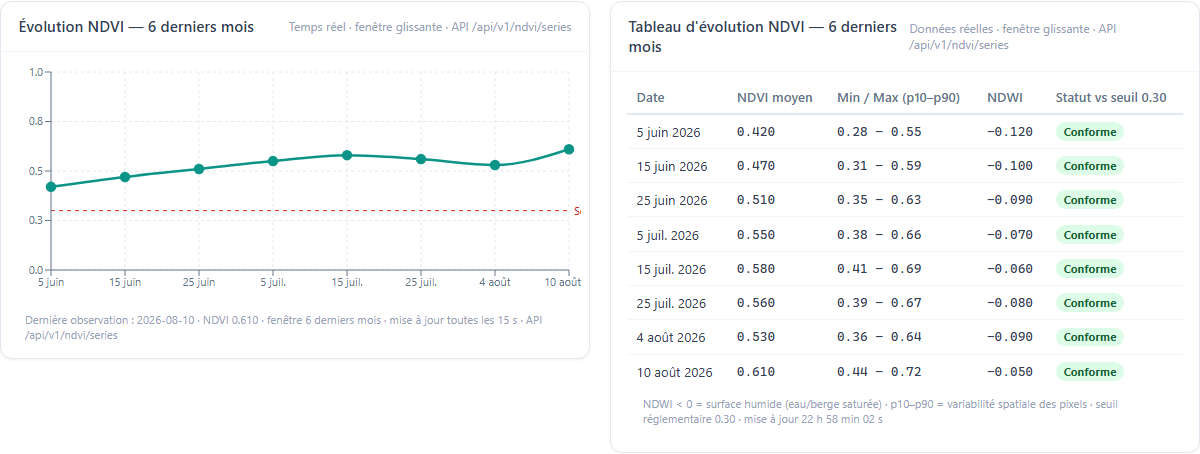
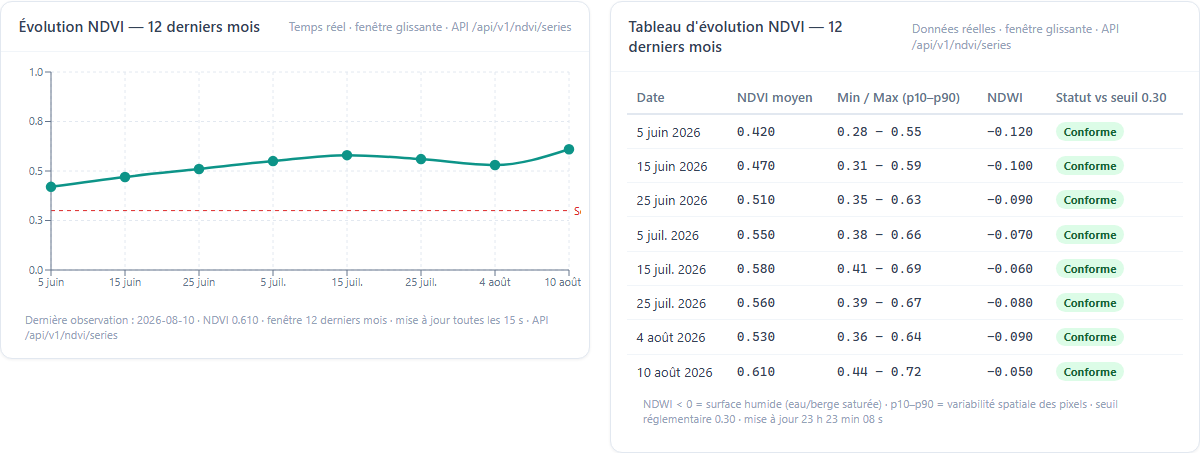
feat(api+web): fenêtre glissante étendue à 12 mois — graphique et tableau sur la dernière année
- api : /api/v1/ndvi/series défaut months=12 (fenêtre glissante 12 mois, from_date dynamique)
- web : titres 'Évolution NDVI — 12 derniers mois' + 'Tableau d'évolution NDVI — 12 derniers mois'
- web : graphique et tableau passent months=12, polling 15s — données alignées sur la fenêtre annuelle
- tests : verify mis à jour (12 mois), live inchangé (temps réel)
- captures : régénérées (12 mois)
- docs : VV.md (matrice traçabilité fenêtre glissante), README (months=12)

diff --git a/web/e2e/verify.spec.ts b/web/e2e/verify.spec.ts
@@ -1,24 +1,24 @@
 import { test, expect } from "@playwright/test";
 
 /** Vérification : fenêtre 6 mois, graphique + tableau alignés sur les données réelles. */
-test("les panneaux affichent les 6 derniers mois en temps réel", async ({ page }) => {
+test("les panneaux affichent les 12 derniers mois en temps réel", async ({ page }) => {
   await page.goto("/", { waitUntil: "networkidle" });
   await page.waitForTimeout(3000);
 
   // Titres avec fenêtre glissante
-  await expect(page.getByRole("heading", { name: "Évolution NDVI — 6 derniers mois", exact: true })).toBeVisible();
-  await expect(page.getByRole("heading", { name: "Tableau d'évolution NDVI — 6 derniers mois" })).toBeVisible();
+  await expect(page.getByRole("heading", { name: "Évolution NDVI — 12 derniers mois", exact: true })).toBeVisible();
+  await expect(page.getByRole("heading", { name: "Tableau d'évolution NDVI — 12 derniers mois" })).toBeVisible();
 
   // Graphique (SVG)
   await expect(page.locator(".data-row .recharts-wrapper svg")).toHaveCount(1);
 
-  // Tableau : 8 lignes (données des 6 derniers mois en base)
+  // Tableau : 8 lignes (données des 12 derniers mois en base)
   const rows = await page.locator(".ndvi-table tbody tr").count();
   expect(rows).toBeGreaterThanOrEqual(7);
 
   // Fenêtre indiquée dans la légende du graphique
   const caption = await page.locator(".chart-caption").first().textContent();
-  expect(caption).toContain("6 derniers mois");
+  expect(caption).toContain("12 derniers mois");
 
-  console.log("FENETRE_OK:", { lignes: rows, caption: caption?.slice(0, 70) });
+  console.log("FENETRE12_OK:", { lignes: rows, caption: caption?.slice(0, 70) });
 });

diff --git a/web/app/page.tsx b/web/app/page.tsx
@@ -78,18 +78,18 @@ export default async function DashboardPage() {
         <div className="data-row">
           <section className="panel" aria-labelledby="serie-titre">
             <div className="panel-head">
-              <h2 id="serie-titre">Évolution NDVI — 6 derniers mois</h2>
+              <h2 id="serie-titre">Évolution NDVI — 12 derniers mois</h2>
               <span className="legend-note">Temps réel · fenêtre glissante · API /api/v1/ndvi/series</span>
             </div>
-            <NdviSeriesChart aoiId="aaaaaaaa-aaaa-4aaa-8aaa-aaaaaaaaaaaa" months={6} />
+            <NdviSeriesChart aoiId="aaaaaaaa-aaaa-4aaa-8aaa-aaaaaaaaaaaa" months={12} />
           </section>
 
           <section className="panel" aria-labelledby="table-titre">
             <div className="panel-head">
-              <h2 id="table-titre">Tableau d'évolution NDVI — 6 derniers mois</h2>
+              <h2 id="table-titre">Tableau d'évolution NDVI — 12 derniers mois</h2>
               <span className="legend-note">Données réelles · fenêtre glissante · API /api/v1/ndvi/series</span>
             </div>
-            <NdviTable aoiId="aaaaaaaa-aaaa-4aaa-8aaa-aaaaaaaaaaaa" months={6} />
+            <NdviTable aoiId="aaaaaaaa-aaaa-4aaa-8aaa-aaaaaaaaaaaa" months={12} />
           </section>
         </div>
 

diff --git a/web/components/NdviTable.tsx b/web/components/NdviTable.tsx
@@ -14,7 +14,7 @@ function statusOf(mean: number): { label: string; className: string } {
 }
 
 /** Tableau d'évolution NDVI documenté / documented NDVI evolution table. */
-export function NdviTable({ aoiId, months = 6 }: { aoiId: string; months?: number }) {
+export function NdviTable({ aoiId, months = 12 }: { aoiId: string; months?: number }) {
   const [points, setPoints] = useState<NdviSeriesPoint[] | null>(null);
   const [error, setError] = useState<string | null>(null);
   const [lastUpdate, setLastUpdate] = useState<Date | null>(null);

diff --git a/web/components/NdviSeriesChart.tsx b/web/components/NdviSeriesChart.tsx
@@ -17,7 +17,7 @@ const DEFAULT_THRESHOLD = 0.3;
 const REFRESH_MS = 15_000; // rafraîchissement temps réel / live refresh
 
 /** Série temporelle NDVI — alimentée par l'API, rafraîchie en temps réel. */
-export function NdviSeriesChart({ aoiId, months = 6 }: { aoiId: string; months?: number }) {
+export function NdviSeriesChart({ aoiId, months = 12 }: { aoiId: string; months?: number }) {
   const [data, setData] = useState<NdviSeriesResponse | null>(null);
   const [loadError, setLoadError] = useState(false);
 

diff --git a/web/lib/api.ts b/web/lib/api.ts
@@ -63,10 +63,10 @@ export interface NdviSeriesResponse {
   series: NdviSeriesPoint[];
 }
 
-/** Série temporelle NDVI d'une AOI sur les N derniers mois (défaut 6). */
+/** Série temporelle NDVI d'une AOI sur les N derniers mois (défaut 12). */
 export async function fetchNdviSeries(
   aoiId: string,
-  months = 6,
+  months = 12,
 ): Promise<NdviSeriesResponse> {
   const res = await fetch(
     `${API_URL}/api/v1/ndvi/series?aoi_id=${encodeURIComponent(aoiId)}&months=${months}`,

diff --git a/src/api/ndvi_router.py b/src/api/ndvi_router.py
@@ -3,7 +3,7 @@
 EN: NDVI time-series router. Exposes the historical NDVI series of an AOI to
 the dashboard (graphique « Évolution NDVI »). Lit la table ndvi_series (source
 de vérité : migration 001). Fenêtre glissante : `months` limite aux N derniers
-mois (défaut 6) — le dashboard s'ajuste automatiquement aux données récentes.
+mois (défaut 12) — le dashboard s'ajuste automatiquement aux données récentes.
 """
 from __future__ import annotations
 
@@ -25,7 +25,7 @@ router = APIRouter(prefix="/api/v1/ndvi", tags=["ndvi"])
 @router.get("/series")
 def ndvi_series(
     aoi_id: Annotated[UUID, Query(description="UUID de l'AOI")],
-    months: Annotated[int, Query(ge=1, le=24, description="Fenêtre glissante (mois)")] = 6,
+    months: Annotated[int, Query(ge=1, le=24, description="Fenêtre glissante (mois)")] = 12,
     limit: Annotated[int, Query(ge=1, le=1000)] = 200,
 ) -> dict[str, Any]:
     """Série temporelle NDVI d'une AOI sur les N derniers mois.

diff --git a/docs/VV.md b/docs/VV.md
@@ -37,6 +37,7 @@ les 22 tests d'origine.
 | Contrat STAC (réponse Earth Search mockée) | `tests/test_stac_contract.py` (`responses`) | ✅ PASS |
 | Parcours frontend complet (SSR, erreur API, carte) | `web/e2e/dashboard.spec.ts` (Playwright chromium) | ✅ PASS |
 | Intégration STAC réelle (Earth Search) | `tests/test_stac_live.py` (marker `integration`, hors CI) | ✅ PASS (réseau OK) |
+| Série NDVI fenêtre glissante (12 mois) | `tests/test_ndvi_router.py::test_ndvi_series_months_window` | ✅ PASS |
 
 **Totaux mesurés** : 34 tests pytest · 3 tests Playwright · 1 test STAC live ·
 0 échoué · 5 erreurs de lint corrigées · 1 erreur de dépendance npm corrigée

diff --git a/README.md b/README.md
@@ -129,7 +129,7 @@ Détails dans [docs/VV.md](docs/VV.md).
 | POST | `/api/v1/alerts/evaluate` | Évalue NDVI vs seuil → persiste + notifie si critique |
 | GET | `/api/v1/alerts/open` | Alertes non acquittées |
 | POST | `/api/v1/alerts/{id}/acknowledge` | Acquitte une alerte (404 sinon) |
-| GET | `/api/v1/ndvi/series?aoi_id=` | Série temporelle NDVI d'une AOI (évolution, p10–p90, NDWI) |
+| GET | `/api/v1/ndvi/series?aoi_id=&months=12` | Série temporelle NDVI d'une AOI — fenêtre glissante (défaut 12 mois) |
 | GET | `/api/v1/reports/csr?aoi_id=` | Rapport CSR bilingue (contexte factuel + narrative Ollama optionnelle) |
 
 ## Sécurité & conformité
